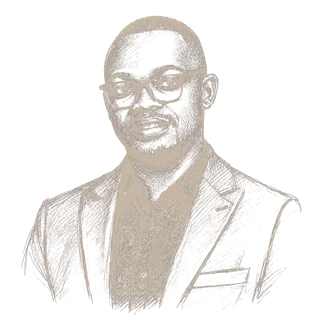
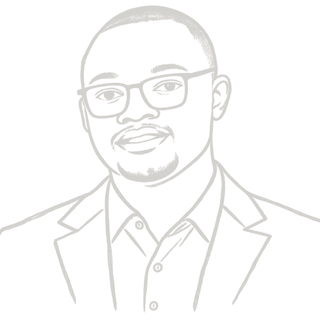
Enlarge site portrait and default theme to light

diff --git a/app/_components/theme-script.jsx b/app/_components/theme-script.jsx
@@ -8,13 +8,17 @@ const themeScript = `(() => {
     storedTheme = window.localStorage.getItem(${JSON.stringify(THEME_STORAGE_KEY)});
   } catch {}
 
+  const hasStoredTheme = storedTheme === "light" || storedTheme === "dark" || storedTheme === "system";
+
   if (storedTheme === "light" || storedTheme === "dark") {
     root.dataset.theme = storedTheme;
+  } else if (!hasStoredTheme) {
+    root.dataset.theme = "light";
   }
 
-  const effectiveTheme = storedTheme === "light" || storedTheme === "dark"
-    ? storedTheme
-    : window.matchMedia("(prefers-color-scheme: dark)").matches
+  const effectiveTheme = storedTheme === "dark"
+    ? "dark"
+    : storedTheme === "system" && window.matchMedia("(prefers-color-scheme: dark)").matches
       ? "dark"
       : "light";
   const colors = ${JSON.stringify(THEME_COLORS)};

diff --git a/app/_components/site-header.jsx b/app/_components/site-header.jsx
@@ -16,16 +16,16 @@ export function SiteHeader() {
           <Image
             alt=""
             className="site-header-portrait-image site-header-portrait-image--light"
-            height={84}
+            height={100}
             src="/assets/joseph-mukorivo-sketch-light.webp"
-            width={84}
+            width={100}
           />
           <Image
             alt=""
             className="site-header-portrait-image site-header-portrait-image--dark"
-            height={84}
+            height={100}
             src="/assets/joseph-mukorivo-sketch-dark.webp"
-            width={84}
+            width={100}
           />
         </span>
         <span className="site-header-name">Joseph Mukorivo</span>

diff --git a/lib/theme.js b/lib/theme.js
@@ -10,7 +10,7 @@ export const THEME_PREFERENCES = ["light", "dark", "system"];
 
 export function getThemePreference() {
   if (typeof window === "undefined") {
-    return "system";
+    return "light";
   }
 
   try {
@@ -26,7 +26,7 @@ export function getThemePreference() {
   const explicitTheme = document.documentElement.dataset.theme;
   return explicitTheme === "light" || explicitTheme === "dark"
     ? explicitTheme
-    : "system";
+    : "light";
 }
 
 export function getEffectiveTheme() {

diff --git a/app/globals.css b/app/globals.css
@@ -440,15 +440,15 @@
 
 .site-header-portrait {
   display: block;
-  width: 84px;
-  height: 84px;
-  flex: 0 0 84px;
+  width: 100px;
+  height: 100px;
+  flex: 0 0 100px;
 }
 
 .site-header-portrait-image {
   display: block;
-  width: 84px;
-  height: 84px;
+  width: 100px;
+  height: 100px;
   object-fit: contain;
 }
 

diff --git a/app/_components/theme-toggle.jsx b/app/_components/theme-toggle.jsx
@@ -60,7 +60,7 @@ export function ThemeToggle({ className = "", messages }) {
   const theme = useSyncExternalStore(
     subscribeToTheme,
     getThemePreference,
-    () => "system"
+    () => "light"
   );
 
   return (
